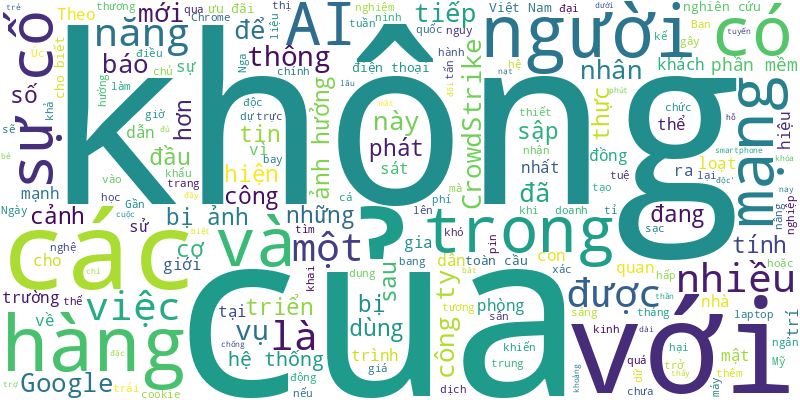
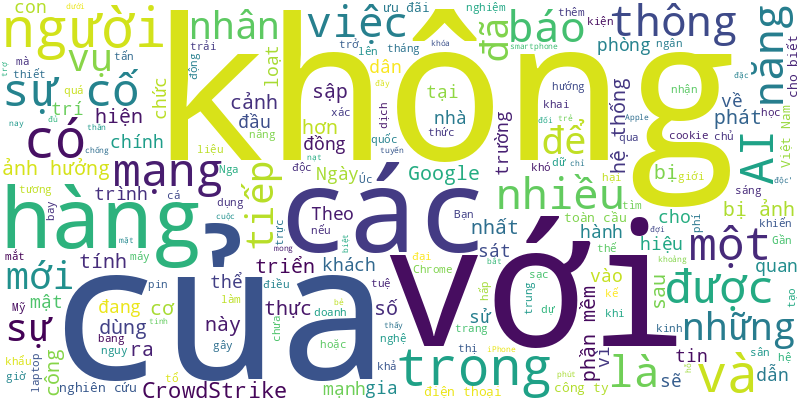
🍀 = 20%

diff --git a/README.md b/README.md
@@ -1,6 +1,23 @@
 # Tuoi Tre RSS 
 
 ## Giáo dục 
+- Theo Vụ Giáo dục đại học - Bộ Giáo dục và Đào tạo, tỉ lệ thí sinh nhập học chiếm 81,87% số thí sinh trúng tuyển đại học đợt 1 năm 2024.
+- Chiều mai, 28-8, Sở Giáo dục và Đào tạo TP.HCM sẽ hướng dẫn chi tiết các thủ tục cho học sinh Trường quốc tế Mỹ chuyển trường theo nguyện vọng tại hai địa chỉ ở huyện Nhà Bè.
+- Các trường công lập tại TP.HCM không biết làm sao khi Luật Đấu thầu yêu cầu phải... đấu thầu cả nguồn cung cấp thực phẩm cho bếp ăn trường tự nấu.
+- Lãnh đạo Đại học RMIT Việt Nam khẳng định vẫn được cấp phép hoạt động ở tất cả các cơ sở tại Việt Nam. Nhưng nhà trường đang tạm dừng tuyển sinh khóa mới tại cơ sở Hà Nội.
+- PGS.TS Phạm Quang Huy sẽ thôi chức phó trưởng ban đào tạo Đại học Kinh tế TP.HCM từ ngày 1-9 để chuyển sang công tác giảng dạy và nghiên cứu khoa học.
+- Huyện vùng cao, biên giới Quan Sơn (Thanh Hóa) vừa ra mắt Quỹ khuyến học - khuyến tài Hoa Ban, với tổng số tiền huy động được cho quỹ là hơn 1,7 tỉ đồng.
+- Tại buổi đối thoại với đại học Việt Nam, các tập đoàn công nghệ đưa ra nhiều giải pháp nâng cao chất lượng đào tạo, hỗ trợ sinh viên...
+- Toàn bộ 523 đơn đăng ký vào Trường tiểu học Tây Mỗ 3 của phụ huynh gửi Phòng Giáo dục và Đào tạo quận Nam Từ Liêm hôm 21-8 đều không được giải quyết.
+- Tất cả 180 trường tiểu học ở Singapore đều có lớp học năng khiếu dành cho các học sinh xuất sắc và giáo viên riêng để giảng dạy các lớp này.
+- Có những ông bố, bà mẹ nghĩ con mình là vàng, con thiên hạ là "rơm rác" nên luôn bênh con mình và cư xử thô bạo với con người khác.
+- Việt Nam đề nghị Úc tạo điều kiện, không để các chính sách mới ảnh hưởng tiến độ cấp visa cho du học sinh Việt Nam.
+- Trước dự báo có nhiều thay đổi về tuyển sinh năm học tới, ngày 27-8, Tuổi Trẻ tổ chức tọa đàm đổi mới chương trình tư vấn tuyển sinh - hướng nghiệp.
+- Ngay từ xa xưa, người ta đã quan niệm giáo dục có nghĩa là khơi ra, chứ không phải là nhồi vào như ta hằng tưởng.
+- Hiệu trưởng một trường THCS ở TP.HCM tư vấn như vậy trong cuộc gặp gỡ phụ huynh của trường nhân năm học mới 2024-2025.
+- Nhằm tạo thêm cơ hội cho các thí sinh, Trường Đại học Quốc tế Sài Gòn (SIU) xét tuyển bổ sung 300 chỉ tiêu.
+- Dạy thêm, học thêm là nhu cầu chính đáng của người học và người dạy, cần quy định rõ ràng hơn để tránh dạy thêm biến tướng.
+- Giữa trưa, vượt gần 20km từ trung tâm xã Ea R'bin, cô giáo Phạm Thị Hồng vào buôn Plao Siêng thì gặp hai em nhỏ.
 - Học viện Hàng không Việt Nam yêu cầu thí sinh đã trúng tuyển trường khác hủy xác nhận nhập học trường đó để nhập học bằng xét tuyển bổ sung vào học viện.
 - Dư luận Đà Nẵng đang xôn xao vụ một giáo viên tố nhóm trẻ dùng bún thiu khiến nhiều em đau bụng.
 - Ngày 26-8, Trường THPT Ernst Thälmann (quận 1, TP.HCM) tổ chức gian hàng sách 0 đồng cho học sinh đến trao đổi sách giáo khoa và dụng cụ học tập.
@@ -14,57 +31,41 @@
 - Xuất sắc vượt qua 13 đội tuyển, đội Hong Kong (Trung Quốc) đoạt chức vô địch Robocon châu Á - Thái Bình Dương 2024. Đội Việt Nam 1 về nhì. 
 - Ban Thường vụ Tỉnh ủy Khánh Hòa vừa kết luận thống nhất báo cáo đánh giá hoạt động và định hướng tiếp tục phát triển Trường đại học Khánh Hòa.
 - Phòng Giáo dục và Đào tạo quận Nam Từ Liêm vừa có thông báo về việc tiếp nhận đơn xin chuyển trường vào Trường tiểu học Tây Mỗ 3.
-- Trường đề nghị công an điều tra, xử lý người làm và lan truyền tin nhắn có nội dung mang tính chất lừa đảo nhập học.
-- Học sinh giỏi Trường THPT Thái Phiên (Đà Nẵng) ký nhận tiền 200.000 đồng để nhận 20 cuốn vở nhưng giá thị trường mỗi cuốn chỉ 6.000 đồng.
-- Dự thảo thông tư quy định về dạy thêm, học thêm vừa được Bộ GD-ĐT công bố có nhiều điểm thay đổi so với quy định hiện hành.
-- Trường đại học Công Thương TP.HCM vừa phát cảnh báo gấp về việc một số thí sinh nhận được tin nhắn thông báo nhập học giả mạo của trường.
-- Triển lãm 'Văn Miếu Quốc Tử Giám, ươm mầm khát vọng hiền tài' tạo ra không gian trải nghiệm văn hóa - nghệ thuật, ứng dụng công nghệ số giới thiệu nhiều tư liệu về Văn Miếu Quốc Tử Giám cho các em học sinh tại TP.HCM.
-- Lạm thu tiền trường là vấn đề trở đi trở lại vào mỗi dịp đầu năm học mới. Và thường sau các cuộc họp cha mẹ học sinh đầu năm, nhiều tâm tư, băn khoăn và cả bức xúc của phụ huynh lại được chia sẻ. Nơi chia sẻ đầu tiên lại là trên mạng xã hội.
-- Bộ Giáo dục và Đào tạo yêu cầu các cơ sở giáo dục phải hoàn thiện, công bố kịp thời các phương thức tuyển sinh từ năm 2025 trở đi.
-- Về bí quyết học tập, thủ khoa Phạm Minh Tiến 'bật mí' phải biết cách hệ thống những gì mình tiếp thu từ thầy cô nhưng cũng phải sáng tạo khi ứng dụng.
-- Học bổng dành cho con em hội viên phụ nữ, nữ công nhân có hoàn cảnh khó khăn và nữ sinh viên mồ côi do dịch COVID-19 tại các quận huyện và TP Thủ Đức, TP.HCM.
-- Trong 50 thủ khoa Trường ĐH Kinh tế quốc dân, có bốn thủ khoa cùng đạt điểm GPA tuyệt đối 4.0.
-- Nữ sinh Trường THPT chuyên Lê Hồng Phong đậu học bổng 9 trường đại học trên thế giới bằng bài luận về sự vận hành của xã hội từ kiến thức hóa - sinh.
-- Lãnh đạo Sở Giáo dục và Đào tạo TP Đà Nẵng khẳng định sẽ xử lý nhanh chóng những sai phạm liên quan vụ việc.
-- Sáng nay 24-8, Trường đại học Bách khoa (Đại học Quốc gia TP.HCM) tổ chức lễ khai giảng, chào đón hơn 5.000 tân sinh viên khóa 2024.
-- Trên mạng xã hội tiếp tục xôn xao khi một phụ huynh tại Thái Bình đăng điểm thi lớp 10 của con sau thanh tra tiếp tục 'nhảy múa', cách nhau 5 điểm môn toán.
-- Trong năm học mới này, những ngôi trường "đẹp như mơ" trở thành điểm nhấn cảnh quan của thành phố Đà Nẵng, đồng thời kích thích thẩm mỹ, khiếu sáng tạo và cảm hứng học tập cho học sinh.
-- Lãnh đạo UBND huyện Vĩnh Thuận, tỉnh Kiên Giang khẳng định hiệu trưởng đã tự ý chuyển cơ sở vật chất trường cũ sang trường mới khi chưa có văn bản chính thức của huyện là có.
-- Sau lùm xùm 'trường chưa thông báo tuyển sinh đã hết chỉ tiêu', lãnh đạo UBND quận Nam Từ Liêm trực tiếp đối thoại với phụ huynh.
 ![Edu](Edu.png)
 ## Thời Sự 
-- Ông Ral Lan Chung - phó bí thư Tỉnh ủy Gia Lai - vừa được Hội đồng nhân dân tỉnh bầu làm Chủ tịch UBND tỉnh Gia Lai.
-- Chủ tịch UBND tỉnh Khánh Hòa vừa chấp thuận tiếp các công dân bị thu hồi đất tại Sông Lô, TP Nha Trang giao cho Công ty TNHH Hoàn Cầu làm dự án nhưng lại bỏ hoang suốt 22 năm qua tới nay.
-- Một người đàn ông 53 tuổi bị ung thư gan, xơ gan nặng do viêm gan B và bé gái 9 tháng tuổi bị xơ gan ứ mật nguyên phát cùng được nhận một lá gan để ghép.
-- TS Nguyễn Việt Hùng, nguyên vụ trưởng Vụ Quản lý đấu thầu, Bộ Kế hoạch và đầu tư nhận định ACV đang làm đúng theo hồ sơ mời thầu.
-- Sau hơn một tháng, cảnh sát giao thông TP.HCM đã tiếp nhận hàng trăm tin nhắn, cuộc gọi từ người dân, phản ánh về vi phạm giao thông và tiến hành xử lý.
-- Một số tin tức đáng chú ý: Bình Chánh bác tin 'chi 100 triệu đồng để chạy chức lãnh đạo ấp'; Diễn biến bất ngờ ở thị trường bất động sản Hoài Đức; Phạt một cá nhân mua chui cổ phiếu...
-- Hôm nay 27-8, thời tiết Nam Bộ và Tây Nguyên mưa tăng, chiều tối nhiều nơi mưa to. Trung Bộ nắng nóng, Bắc Bộ trời cũng nắng sau chuỗi ngày mưa.
-- Lần thứ sáu đến Việt Nam, Thống đốc tỉnh Aichi (Nhật Bản) Omura Hideaki mong muốn Việt Nam mở tổng lãnh sự quán tại đây và tăng tần suất chuyến bay.
-- Đây là đối thoại chính trị - an ninh - quốc phòng đầu tiên sau khi Việt Nam và Mỹ nâng cấp quan hệ lên Đối tác chiến lược toàn diện tháng 9-2023.
-- Cơn mưa lớn vào chiều tối khiến thành phố Bến Cát, tỉnh Bình Dương bất ngờ ngập trong biển nước, không chỉ xe máy mà cả ô tô bị nước cuốn trôi, lực lượng chức năng phải ứng cứu.
-- Thủ tướng Phạm Minh Chính mong muốn các phó thủ tướng, bộ trưởng vừa được Quốc hội phê chuẩn, bổ nhiệm 'đồng cam cộng khổ' cùng với tập thể Chính phủ.
-- Cảnh sát giao thông khuyến cáo người dân lựa chọn lộ trình và thời gian phù hợp, đồng thời cần tuân thủ các quy định khi đi trên cao tốc như: không đi vào làn khẩn cấp, giữ khoảng cách an toàn, không sử dụng điện thoại khi lái xe...
-- Đoàn tàu khách SE7 chạy tuyến đường sắt Bắc Nam khi đến đoạn gần đường ngang trên đường Nguyễn Kiệm (quận Phú Nhuận, TP.HCM) đã vướng phải dây cáp viễn thông.
-- Bộ Ngoại giao nêu rõ mong muốn Đại học Fulbright Việt Nam tiếp tục đóng góp thiết thực vào sự phát triển quan hệ hữu nghị, hợp tác giữa Việt Nam và Mỹ.
-- Liên quan vụ 3 lần bị xử phạt, 'biệt phủ' sai phép do vợ phó chủ tịch thị xã xây vẫn tồn tại, chủ mới khu đất cam kết tự phá dỡ công trình vi phạm trong 30 ngày.
-- Quá trình thi công dự án chung cư tại lô đất CT2 (quận Long Biên, Hà Nội) đã gây hư hỏng vỉa hè, đường Cổ Linh và chưa được khắc phục.
-- Dư luận Đà Nẵng đang xôn xao vụ một giáo viên tố nhóm trẻ dùng bún thiu khiến nhiều em đau bụng.
-- Dưới đây là danh sách các thành viên Chính phủ nhiệm kỳ 2021 - 2026 sau khi Quốc hội phê chuẩn bổ nhiệm 3 phó thủ tướng và 2 bộ trưởng.
-- Tin vào lời hứa 'việc nhẹ lương cao', cô gái 17 tuổi bị người xấu lừa bán sang biên giới Campuchia để lao động khổ sai rồi được công an giải cứu.
-- Chiều 26-8, tại Phủ Chủ tịch, Tổng Bí thư, Chủ tịch nước Tô Lâm trao quyết định bổ nhiệm ba phó thủ tướng và hai bộ trưởng vừa được Quốc hội phê chuẩn bổ nhiệm.
-- Trước việc dịch lở mồm long móng lây lan mạnh, Bộ Nông nghiệp và Phát triển nông thôn yêu cầu Quảng Trị triển khai các giải pháp kiểm soát.
-- Đường 830C nối từ trung tâm huyện Bến Lức đến đường Nguyễn Hữu Trí (TP.HCM) dài 9km sẽ được nâng cấp, mở rộng với mức đầu tư hơn 970 tỉ.
-- Sở Giao thông vận tải TP.HCM vừa ra thông báo hạn chế xe cộ đi vào một số tuyến đường khu vực sân bay Tân Sơn Nhất (quận Tân Bình, TP.HCM).
-- Tổng thư ký Quốc hội Bùi Văn Cường nêu rõ theo nghị quyết của Trung ương, chức danh Chủ tịch nước sẽ được Quốc hội bầu vào tháng 10.
-- Lúc 19h15, tại các quận, huyện như Đống Đa, Cầu Giấy, Nam Từ Liêm, Thanh Xuân, Hoàng Mai, Hà Đông, Thanh Trì đang có mưa vừa, mưa to, kèm sớm chớp.
-- Với việc nước thải được thu gom xử lý liên tục, nước kênh Tàu Hủ - Bến Nghé - Đôi - Tẻ sẽ giảm ô nhiễm, không còn màu đen.
-- Đồng ý giúp Hiến (không rõ lai lệnh), nam tài xế xe công nghệ vận chuyển gần 5kg ma túy lấy 10 triệu đồng tiền công. Tòa án nhân dân TP.HCM tuyên bị cáo mức án tử hình.
-- Chưa kịp ổn định cuộc sống sau trận lũ cách đây 1 tháng, nhiều hộ dân ở xã Tông Cọ (huyện Thuận Châu, Sơn La) tiếp tục bị ngập sâu.
-- Theo báo cáo của Trung tâm Kiểm soát bệnh tật tỉnh Phú Yên (CDC Phú Yên), từ đầu năm 2024 đến nay toàn tỉnh ghi nhận 28 trường hợp chó cắn, trong đó có 2 trường hợp tử vong.
-- Tức giận vì lời đe dọa đốt chuồng gà của mình, Đỗ Hoàng Minh dùng súng bắn chết người. Tòa án nhân dân TP.HCM tuyên bị cáo án tù chung thân.
+- Giang hồ miền Tây Quảng Trị 'Quân Idol' cùng 8 đồng phạm hầu toà trong vụ án liên quan đến ma túy, đe doạ giết người, cho vay lãi nặng, bắt giữ người trái pháp luật…
+- Ngày 27-8, UBND TP.HCM đã công bố dịch sởi trên toàn TP. Thời gian xảy ra dịch là tháng 8-2024.
+- Đến 0h30 ngày 28-8, các đơn vị cáp viễn thông vẫn đang nối những đoạn cáp bị đứt sau sự cố níu toa tàu tối hôm trước tại quận Phú Nhuận, TP.HCM.
+- Tin tức đáng chú ý: Yêu cầu đảm bảo an ninh, an toàn thực phẩm tại các chợ TP.HCM; Chủ tịch UBND tỉnh Bắc Giang tặng bằng khen cho hai người cứu tài xế giữa nước lũ; Tìm đơn vị khai thác tuyến đường thủy từ TP.HCM đi Tiền Giang...
+- Hôm nay 28-8, thời tiết Bắc Bộ vùng phía tây mưa dông, phía đông lại nắng nóng. Trung Bộ nắng nóng còn Nam Bộ mưa rào đến mưa to.
+- Trong 10 năm, Việt Nam tổ chức 21 khóa huấn luyện với gần 1.500 lượt cán bộ, nhân viên cho 5 bệnh viện dã chiến 2, hai thê đội Đội Công binh gìn giữ hòa bình Liên Hiệp Quốc.
+- UBND tỉnh Khánh Hòa vừa phê bình 16 đơn vị giải ngân vốn đầu tư công năm 2024 chỉ đạt từ 0,6 - 26,5%, thấp hơn tỉ lệ bình quân của cả nước.
+- Chiều 27-8, tại trụ sở Trung ương Đảng, Tổng bí thư, Chủ tịch nước Tô Lâm đã tiếp Chủ tịch Thượng viện Úc Sue Lines và Đoàn đại biểu cấp cao Nghị viện Úc trong chyến thăm chính thức Việt Nam.
+- Chiều 27-8, UBND TP.HCM đã chính thức công bố dịch sởi trên toàn TP trước nguy cơ diễn tiến bệnh ngày càng phức tạp. Vậy phụ huynh cần làm gì?
+- Sự kiện nằm trong chuỗi hoạt động chào mừng 79 năm Ngày Quốc khánh 2-9, khẳng định niềm tự hào dân tộc của mỗi chiến sĩ mũ nồi xanh Việt Nam đang thực hiện nhiệm vụ tại Abyei.
+- Theo chính quyền sở tại, nguyên nhân sự cố được xác định là nhân viên kỹ thuật đã sơ ý bấm vào nút sự cố cứu hỏa cấp 2 của thang máy.
+- Ngày 27-8, Tổng Bí thư, Chủ tịch nước Tô Lâm, trưởng Tiểu ban Văn kiện Đại hội XIV của Đảng, chủ trì phiên họp lần thứ 2 Tiểu ban Văn kiện.
+- TP.HCM ban hành kế hoạch thi tuyển 5 phó giám đốc sở gồm Sở Lao động - Thương binh và Xã hội, Sở Văn hóa và Thể thao, Sở Khoa học và Công nghệ, Sở Tài chính và Sở An toàn thực phẩm từ nay đến 15-12-2024.
+- Chiều 27-8, Tòa án nhân dân TP Hà Tĩnh (tỉnh Hà Tĩnh) đã mở lại phiên xét xử đối với 5 cựu cầu thủ Câu lạc bộ bóng đá Hồng Lĩnh Hà Tĩnh về tội tổ chức sử dụng trái phép chất ma túy.
+- Đại sứ Trung Quốc Hùng Ba khẳng định dù trên bất kỳ cương vị nào sẽ luôn giữ những tình cảm tốt đẹp về đất nước và con người Việt Nam, đóng góp cho quan hệ hai nước.
+- TP.HCM sẽ kiến nghị Chính phủ xem xét điều chỉnh mức thu để nghĩa vụ tài chính về đất phù hợp với tình hình kinh tế xã hội khi có bảng giá đất điều chỉnh.
+- Nhiều địa phương ở Quảng Trị đang xúc tiến các thủ tục để đưa nông dân sang làm việc thời vụ tại Hàn Quốc với mức lương tối thiểu 40 triệu đồng/tháng, nhưng lại e ngại vấn đề bỏ trốn vì không có ràng buộc.
+- 15 người trên xe khách thoát chết khi chiếc xe lao xuống suối bên đường trên quốc lộ 4B.
+- Việc chính thức thí điểm số hóa công tác quản lý hoạt động dịch vụ hàng hải ở TP.HCM giúp người dân, doanh nghiệp tham gia hoạt động hàng hải thêm thuận tiện.
+- Ban này kiến nghị những công trình tạm, công trình phụ trợ diện tích không vượt mật độ xây dựng có thể xem xét tồn tại, sau đó điều chỉnh quy hoạch 1/500 để cập nhật.
+- Sự việc hiếm hoi diễn ra ngày 27-8, khi Chủ tịch Thượng viện Úc Sue Lines gặp Thủ tướng Phạm Minh Chính.
+- Trùm giang hồ Quân “Idol” sẽ bị Tòa án nhân dân tỉnh Quảng Trị xét xử vào ngày  28-8  với 7 tội danh.
+- Triển lãm mở cửa phục vụ du khách và nhân dân tham quan, tìm hiểu đến hết ngày 30-11-2024.
+- Ngày 27-8, UBND TP.HCM đã chính thức công bố dịch sởi trên toàn TP trước bối cảnh ca sởi tăng nhanh và đã có ba trẻ tử vong vì sởi.
+- Thời gian gần đây đã xuất hiện nhiều trang fanpage giả mạo cuộc thi UPU trên Facebook.
+- Tình trạng cáp viễn thông, dây điện chằng chịt "như mạng nhện" xuất hiện khắp các con đường, ngõ hẻm ở TP.HCM.
+- Công ty TNHH Làng Việt Nam ở huyện Hàm Thuận Bắc bị phạt hơn 430 triệu đồng về nhiều hành vi liên quan các trại heo gây ô nhiễm.
+- Đèo Tà Nung thuộc tỉnh lộ 725 nối Đà Lạt với Tà Nung bị sạt lở nghiêm trọng tạo thành một hàm ếch.
+- Chủ tịch UBND TP.HCM Phan Văn Mãi cho rằng hiện nay nhiều nhà đầu tư chiến lược muốn đến TP.HCM.
+- Trong lúc dọn vệ sinh khuôn viên cơ quan, một dân quân tự vệ xã Ia Pnôn, huyện Đức Cơ (Gia Lai), cuốc trúng lựu đạn nổ và tử vong.
 ![New](News.png)
 ## Nhịp sống số 
+- Apple chính thức thông báo sẽ tổ chức sự kiện ra mắt iPhone 16, một trong những sự kiện công nghệ được mong đợi nhất hành tinh, vào ngày 9-9.
 - Nhiều nghiên cứu cho thấy trẻ dùng smartphone đối mặt nhiều nguy cơ, đặc biệt là chức năng thần kinh bị ảnh hưởng, bị 'đầu độc' và bắt nạt trực tuyến...
 - Bạn có tin được không: khoảng 61% mật khẩu hiện nay có thể bị bẻ khóa trong chưa đầy một phút dưới sự hỗ trợ của trí tuệ nhân tạo (AI), trong khi chỉ có 7% mật khẩu đủ mạnh để phòng chống các cuộc tấn công lâu dài.
 - Với xu hướng kinh doanh hiện đại là tập trung nhiều hơn vào khách hàng, việc mang đến nhiều trải nghiệm cá nhân hóa để kết nối sâu sắc hơn với khách hàng là rất quan trọng.
@@ -94,5 +95,4 @@
 - Công ty phần mềm an ninh mạng CrowdStrike thông báo đã tìm được nguyên nhân vụ sập hệ thống máy tính toàn cầu.
 - Thực hiện chủ trương tắt sóng 2G của Bộ Thông tin và Truyền thông vào tháng 9-2024, VinaPhone triển khai loạt ưu đãi khách hàng nâng cấp lên điện thoại 4G miễn phí và nhiều ưu đãi hấp dẫn khác để duy trì liên lạc mà không phải lo lắng về chi phí.
 - Với gần một nửa dân số Úc bị ảnh hưởng, vụ tấn công mạng MediSecure là một trong những vụ xâm phạm dữ liệu lớn nhất trong lịch sử quốc gia này.
-- Đầu tuần này, giới công nghệ xôn xao với thông tin Alphabet, công ty mẹ của Google, đang sắp hoàn tất thương vụ 'khủng' mua lại công ty khởi nghiệp an ninh mạng Wiz với giá 23 tỉ USD.
 ![life](Life.png)
